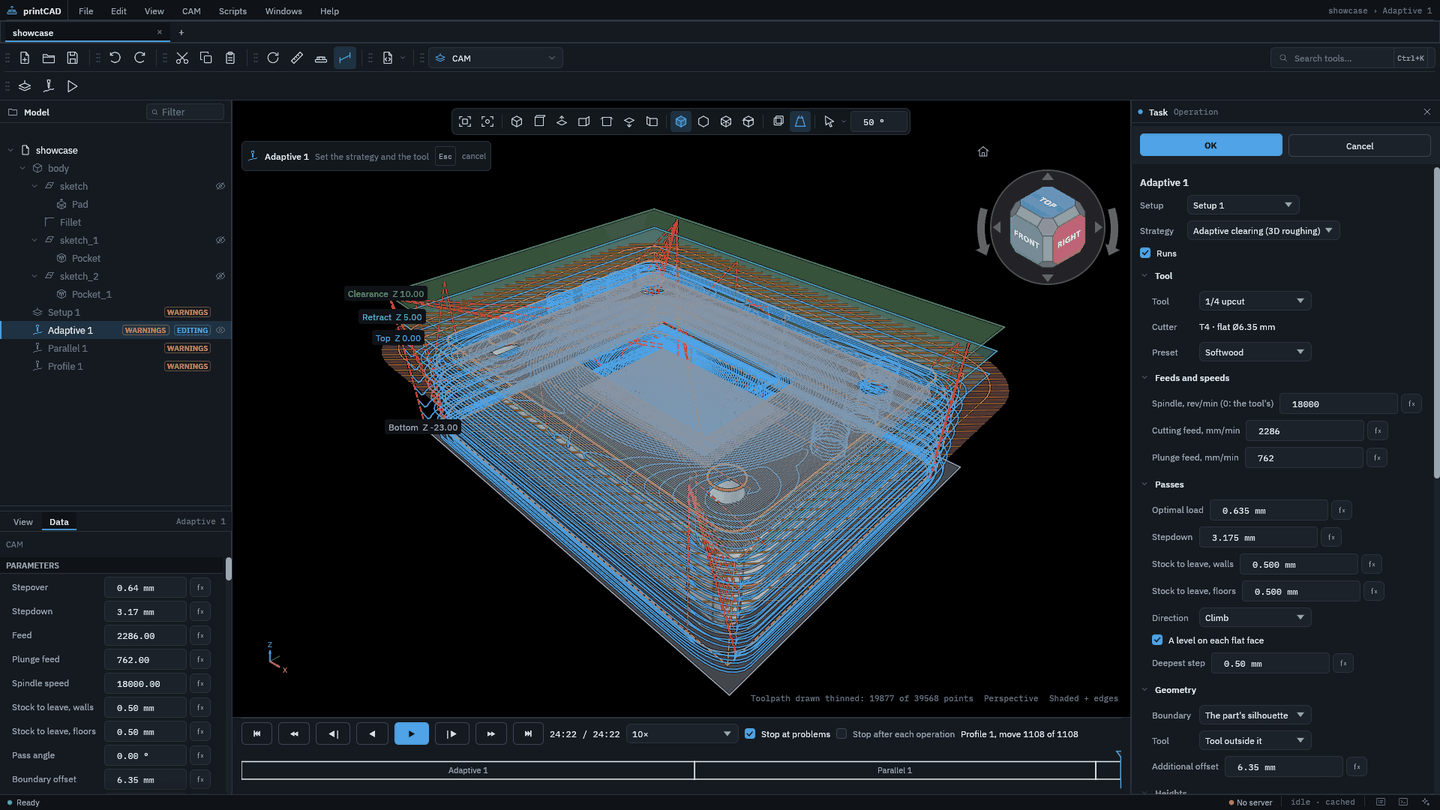
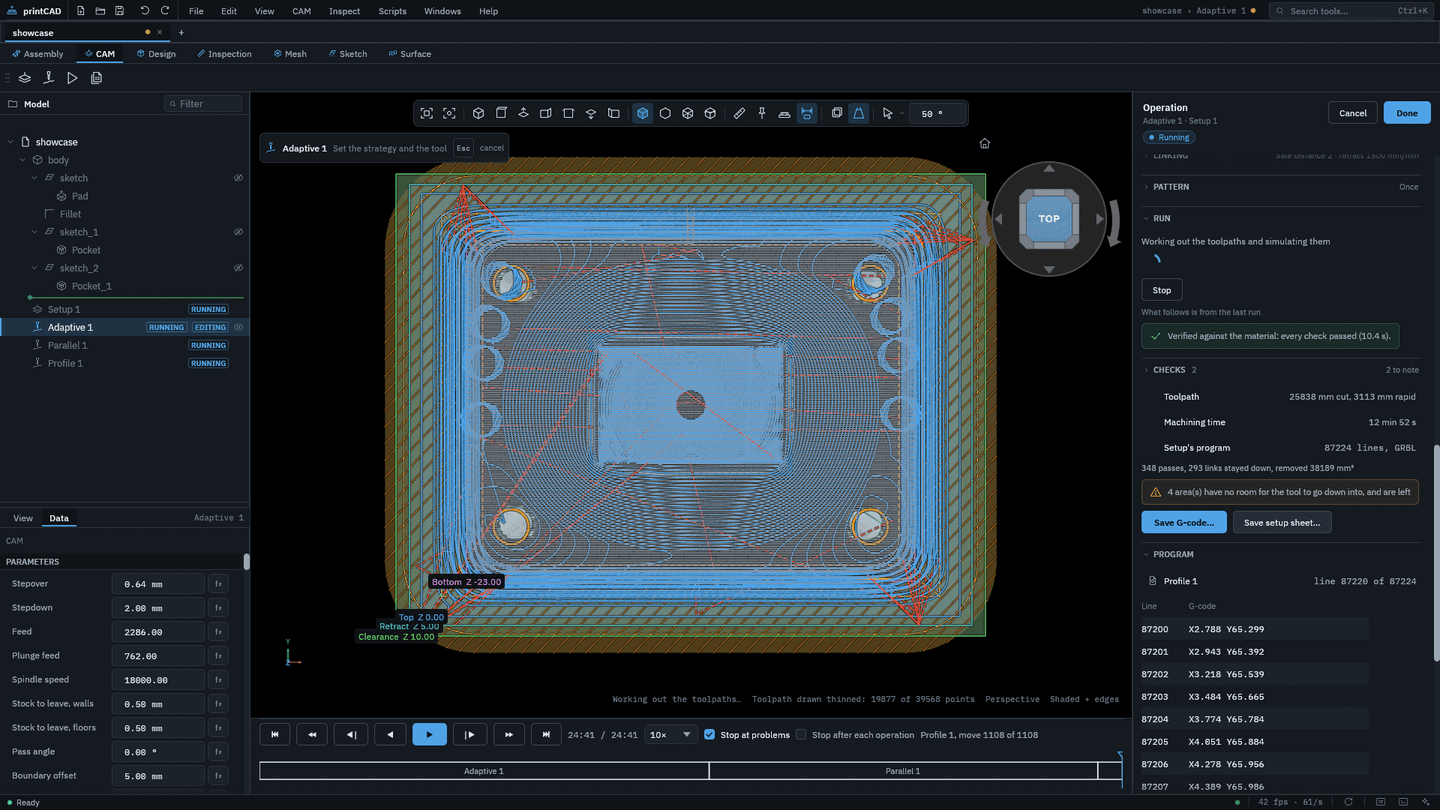
README: show the operation panel as it looks now
The panels moved onto printCAD's panel blocks, so the old screenshot
showed a layout that is gone.

diff --git a/README.md b/README.md
@@ -328,7 +328,7 @@ panels, the drawing and the helper that runs camcraft.
   zero or the picked faces and edges. The view shows them as planes across the
   stock while the operation is edited.
 
-  ![An adaptive clearing open for editing: its toolpath, its heights as planes, and its settings](docs/screenshots/operation.png)
+  ![An adaptive clearing open for editing: its toolpath and heights, its checks, and the setup's program](docs/screenshots/operation.png)
 
 - **Linking**, as Fusion's Linking tab: retract feed, retraction, safe and
   stay-down distances, ramps, the entry (helix, plunge or ramp), leads on and
